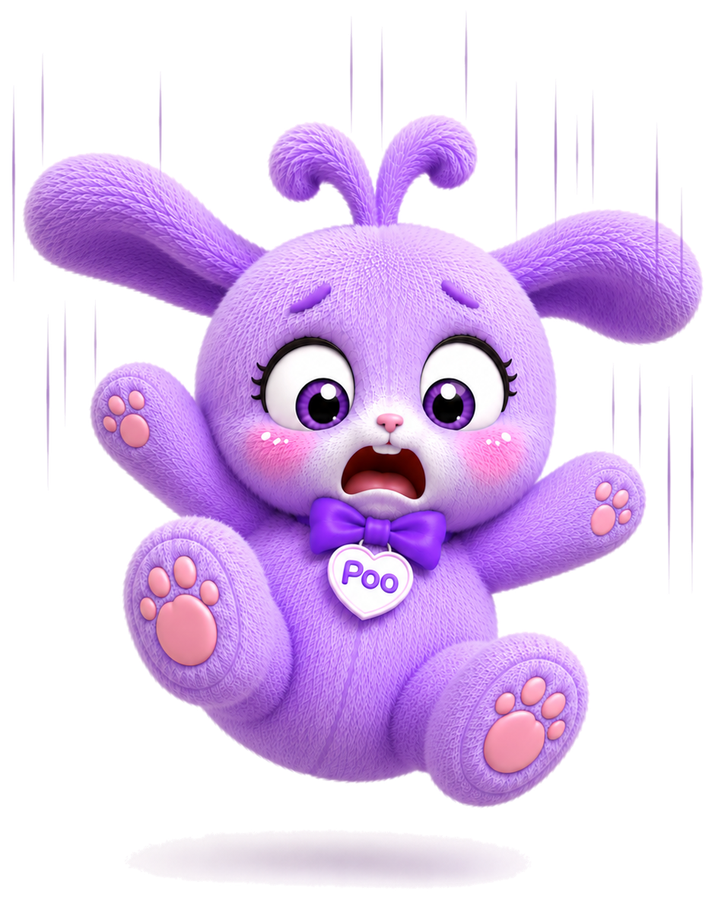
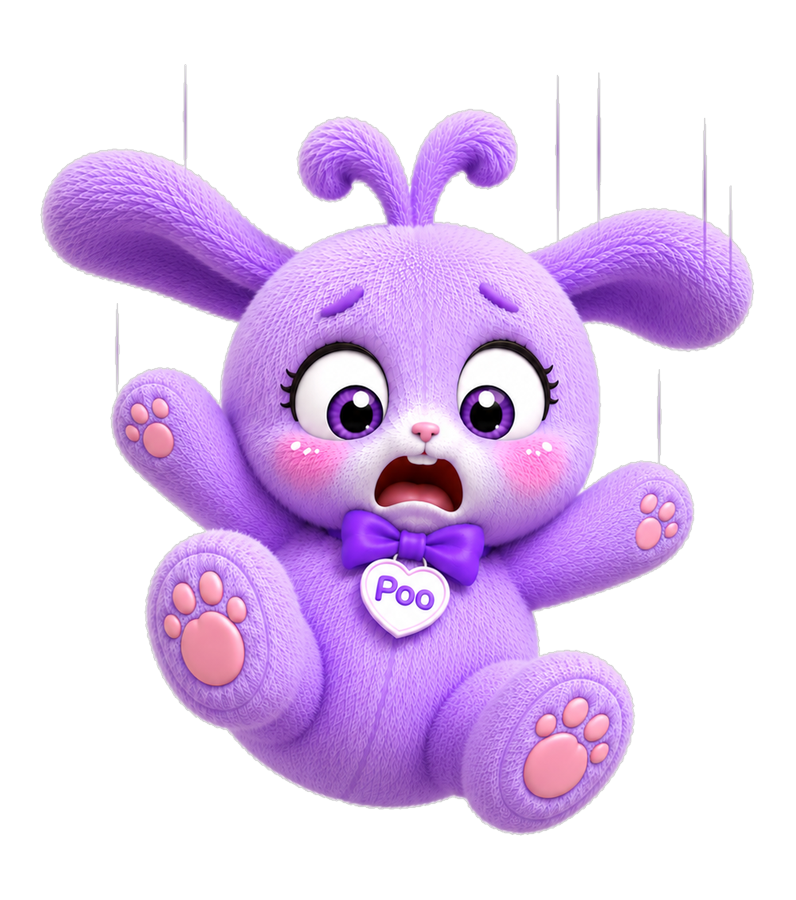
Fix glitching Poo art: remove debris, normalize scale, drop ground-fused frames
The last batch was a lazy copy-paste: raw source renders at
inconsistent scale/framing versus the rig, plus leftover motion
lines, dust clouds and cracked-ground graphics baked into the art.

- Reprocessing pipeline now: (1) flood-fill white background to
  transparent from the image border, (2) keep only the largest
  connected foreground blob (drops disconnected motion lines/dust/
  stars; keeps the 2 largest for catch_reach so the butterfly stays),
  (3) compose onto a canvas standardized to the rig's own aspect
  ratio and character-height fraction, so swapping between a rig
  pose and a flat pose no longer jumps in scale.
- Dropped fall_4/fall_5 (impact/bounce) entirely - in those renders
  her paws and the cracked-ground/dust art are pixel-fused with no
  gap, so they can't be separated by connected-component analysis.
  An automated row-width shadow-flare heuristic was tried next but
  proved unreliable (false-triggered on legitimately splayed limbs in
  the falling pose, chopping her body). Replaced with a small fixed
  bottom crop, applied only to grounded/sitting poses (not the
  airborne falling/reaching ones), that consistently removes the
  drop-shadow ellipse without cutting into her.
- Falling sequence is now 4 frames (start falling -> mid fall ->
  brace -> dizzy settle) instead of 7.

diff --git a/miss-you-app/poo.js b/miss-you-app/poo.js
@@ -21,9 +21,9 @@
   // moments rather than continuous idle: falling, catching a butterfly, and
   // a few extra expressions the rig doesn't have.
   const FLAT_DIR = "./assets/poo/extra/";
-  const FLAT_POSES = ["catch_reach", "fall_1", "fall_2", "fall_3", "fall_4", "fall_5", "fall_6",
+  const FLAT_POSES = ["catch_reach", "fall_1", "fall_2", "fall_3", "fall_6",
                        "wave", "sad", "grumpy", "delight", "peekaboo", "cheer"];
-  const FALL_SEQUENCE = ["fall_1", "fall_2", "fall_3", "fall_2", "fall_4", "fall_5", "fall_6"];
+  const FALL_SEQUENCE = ["fall_1", "fall_2", "fall_3", "fall_6"];
 
   const BOND_KEY = "moonpie-poo-bond";
   const POS_KEY = "moonpie-poo-pos";

diff --git a/miss-you-app/sw.js b/miss-you-app/sw.js
@@ -1,4 +1,4 @@
-const CACHE_NAME = "moonpie-miss-you-v45";
+const CACHE_NAME = "moonpie-miss-you-v46";
 const ASSETS = [
   "./",
   "./index.html",
@@ -7,7 +7,7 @@ const ASSETS = [
   "./content.js?v=43",
   "./app.js?v=43",
   "./poo.css?v=3",
-  "./poo.js?v=5",
+  "./poo.js?v=6",
   "./presence.js?v=2",
   "./manifest.webmanifest",
   "./icon.svg",

diff --git a/miss-you-app/index.html b/miss-you-app/index.html
@@ -409,7 +409,7 @@
   <div class="toast" id="toast" role="status" aria-live="polite"></div>
   <script src="./content.js?v=43"></script>
   <script src="./app.js?v=43"></script>
-  <script src="./poo.js?v=5"></script>
+  <script src="./poo.js?v=6"></script>
   <script src="./presence.js?v=2"></script>
 </body>
 </html>
